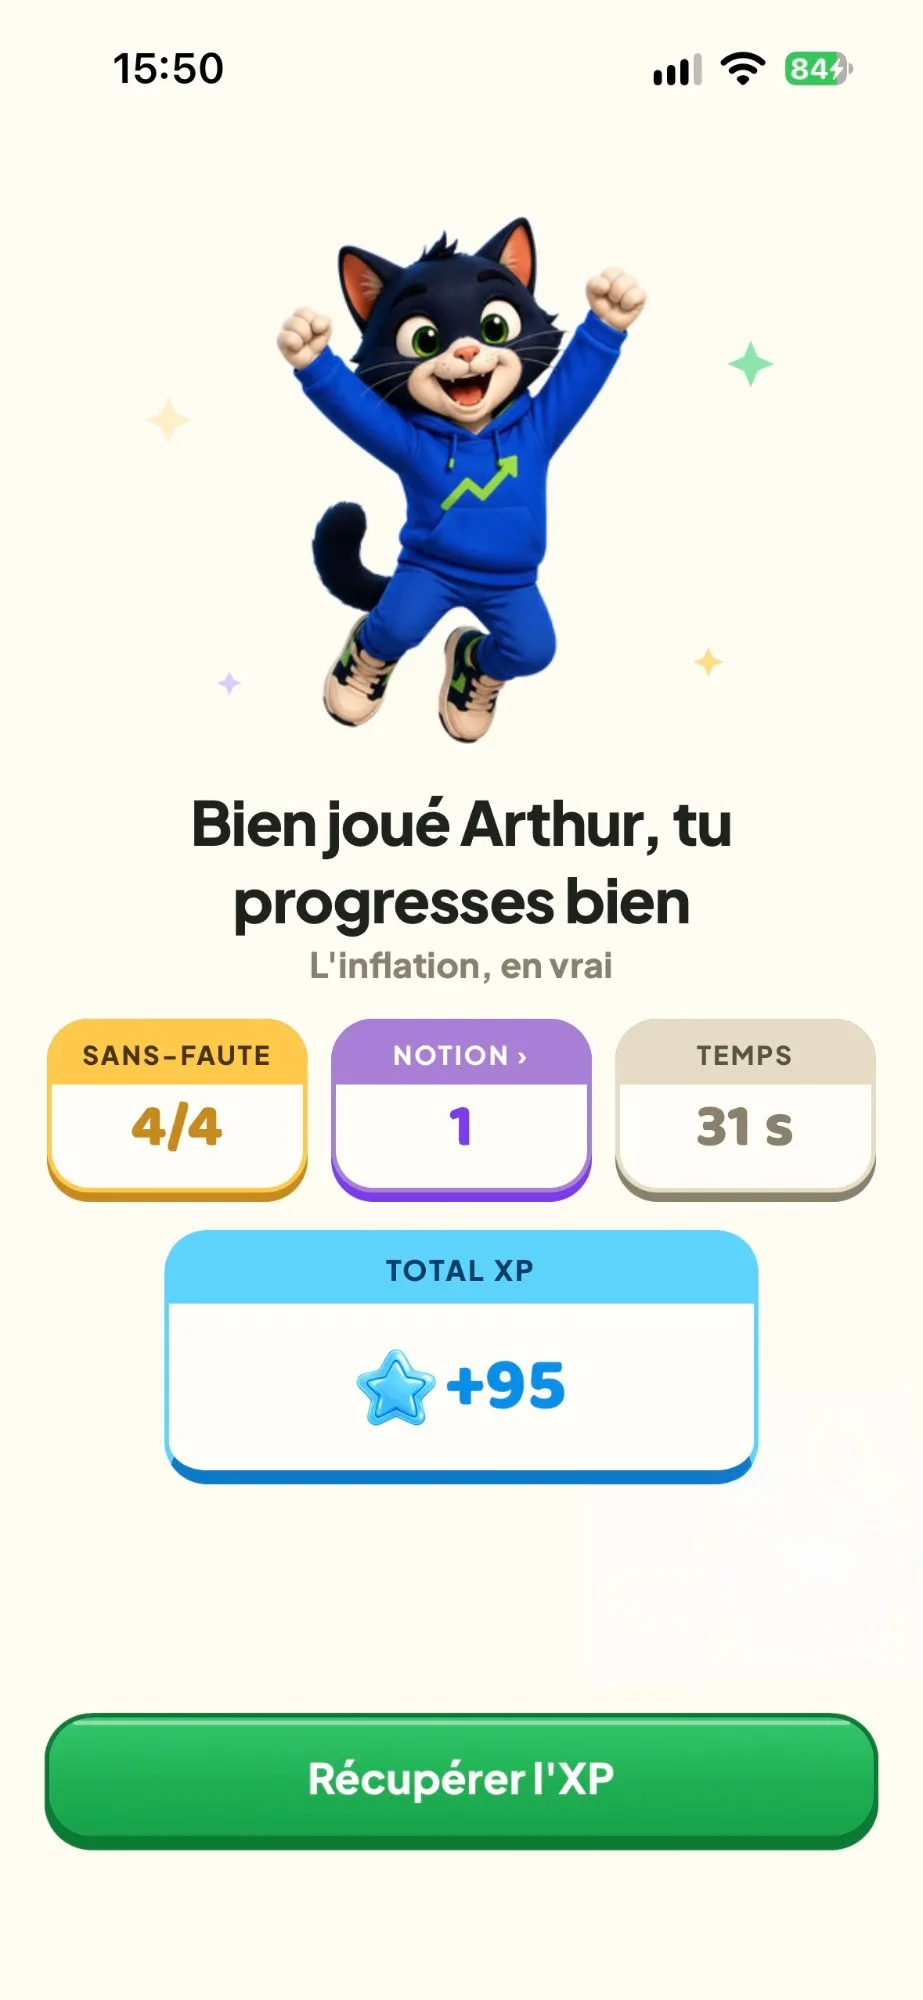
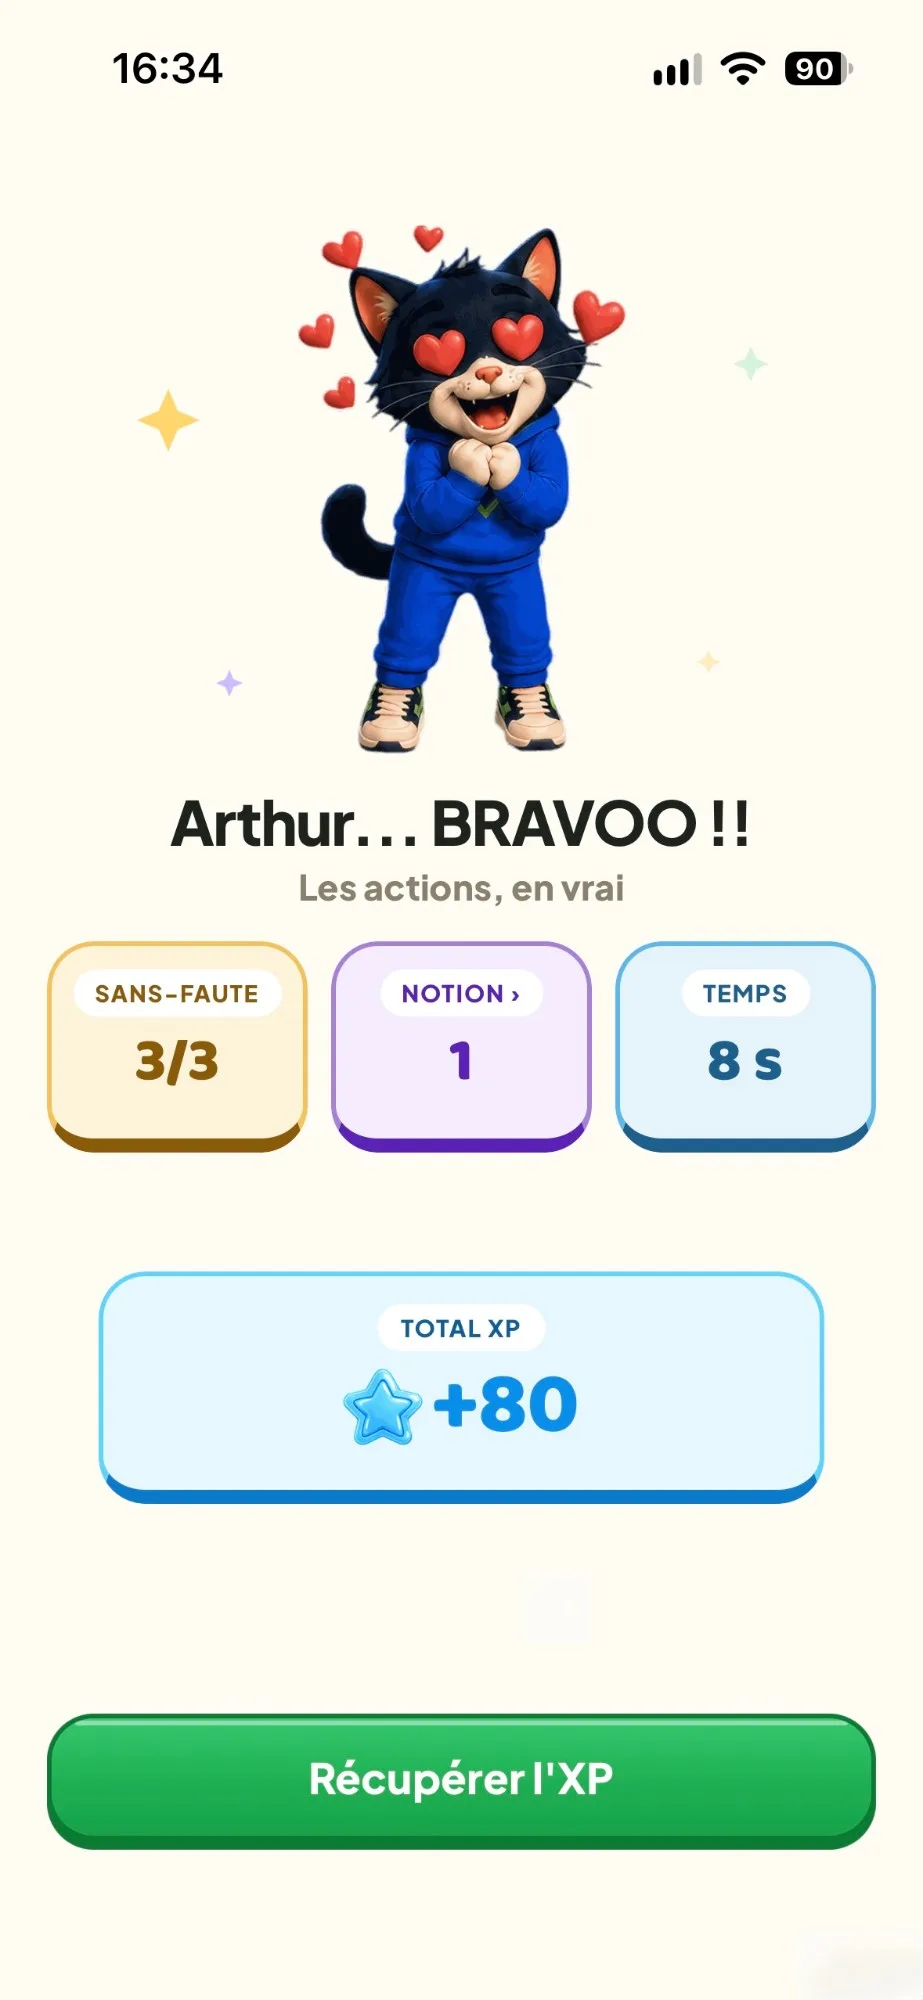
Nouvelle capture de fin de leçon

diff --git a/index.html b/index.html
@@ -508,7 +508,7 @@ footer .legal{flex-basis:100%;border-top:1px solid #214A32;padding-top:20px;font
           <img class="screen shot on" src="img/app-notion.webp" alt="Écran de leçon CRESKO : épargner ou investir, avec 1 000 €" width="923" height="2000">
           <img class="screen shot" src="img/app-quiz.webp" alt="Écran CRESKO : question du quiz, combo ×4" width="923" height="2000" loading="lazy">
           <img class="screen shot" src="img/app-defi.webp" alt="Écran CRESKO : le défi, glisser le bon mot dans chaque trou" width="923" height="2000" loading="lazy">
-          <img class="screen shot" src="img/app-fin.webp" alt="Écran CRESKO : fin de leçon, +95 XP" width="923" height="2000" loading="lazy">
+          <img class="screen shot" src="img/app-fin.webp" alt="Écran CRESKO : fin de leçon, +80 XP" width="923" height="2000" loading="lazy">
         </div>
       </div>
     </div>
